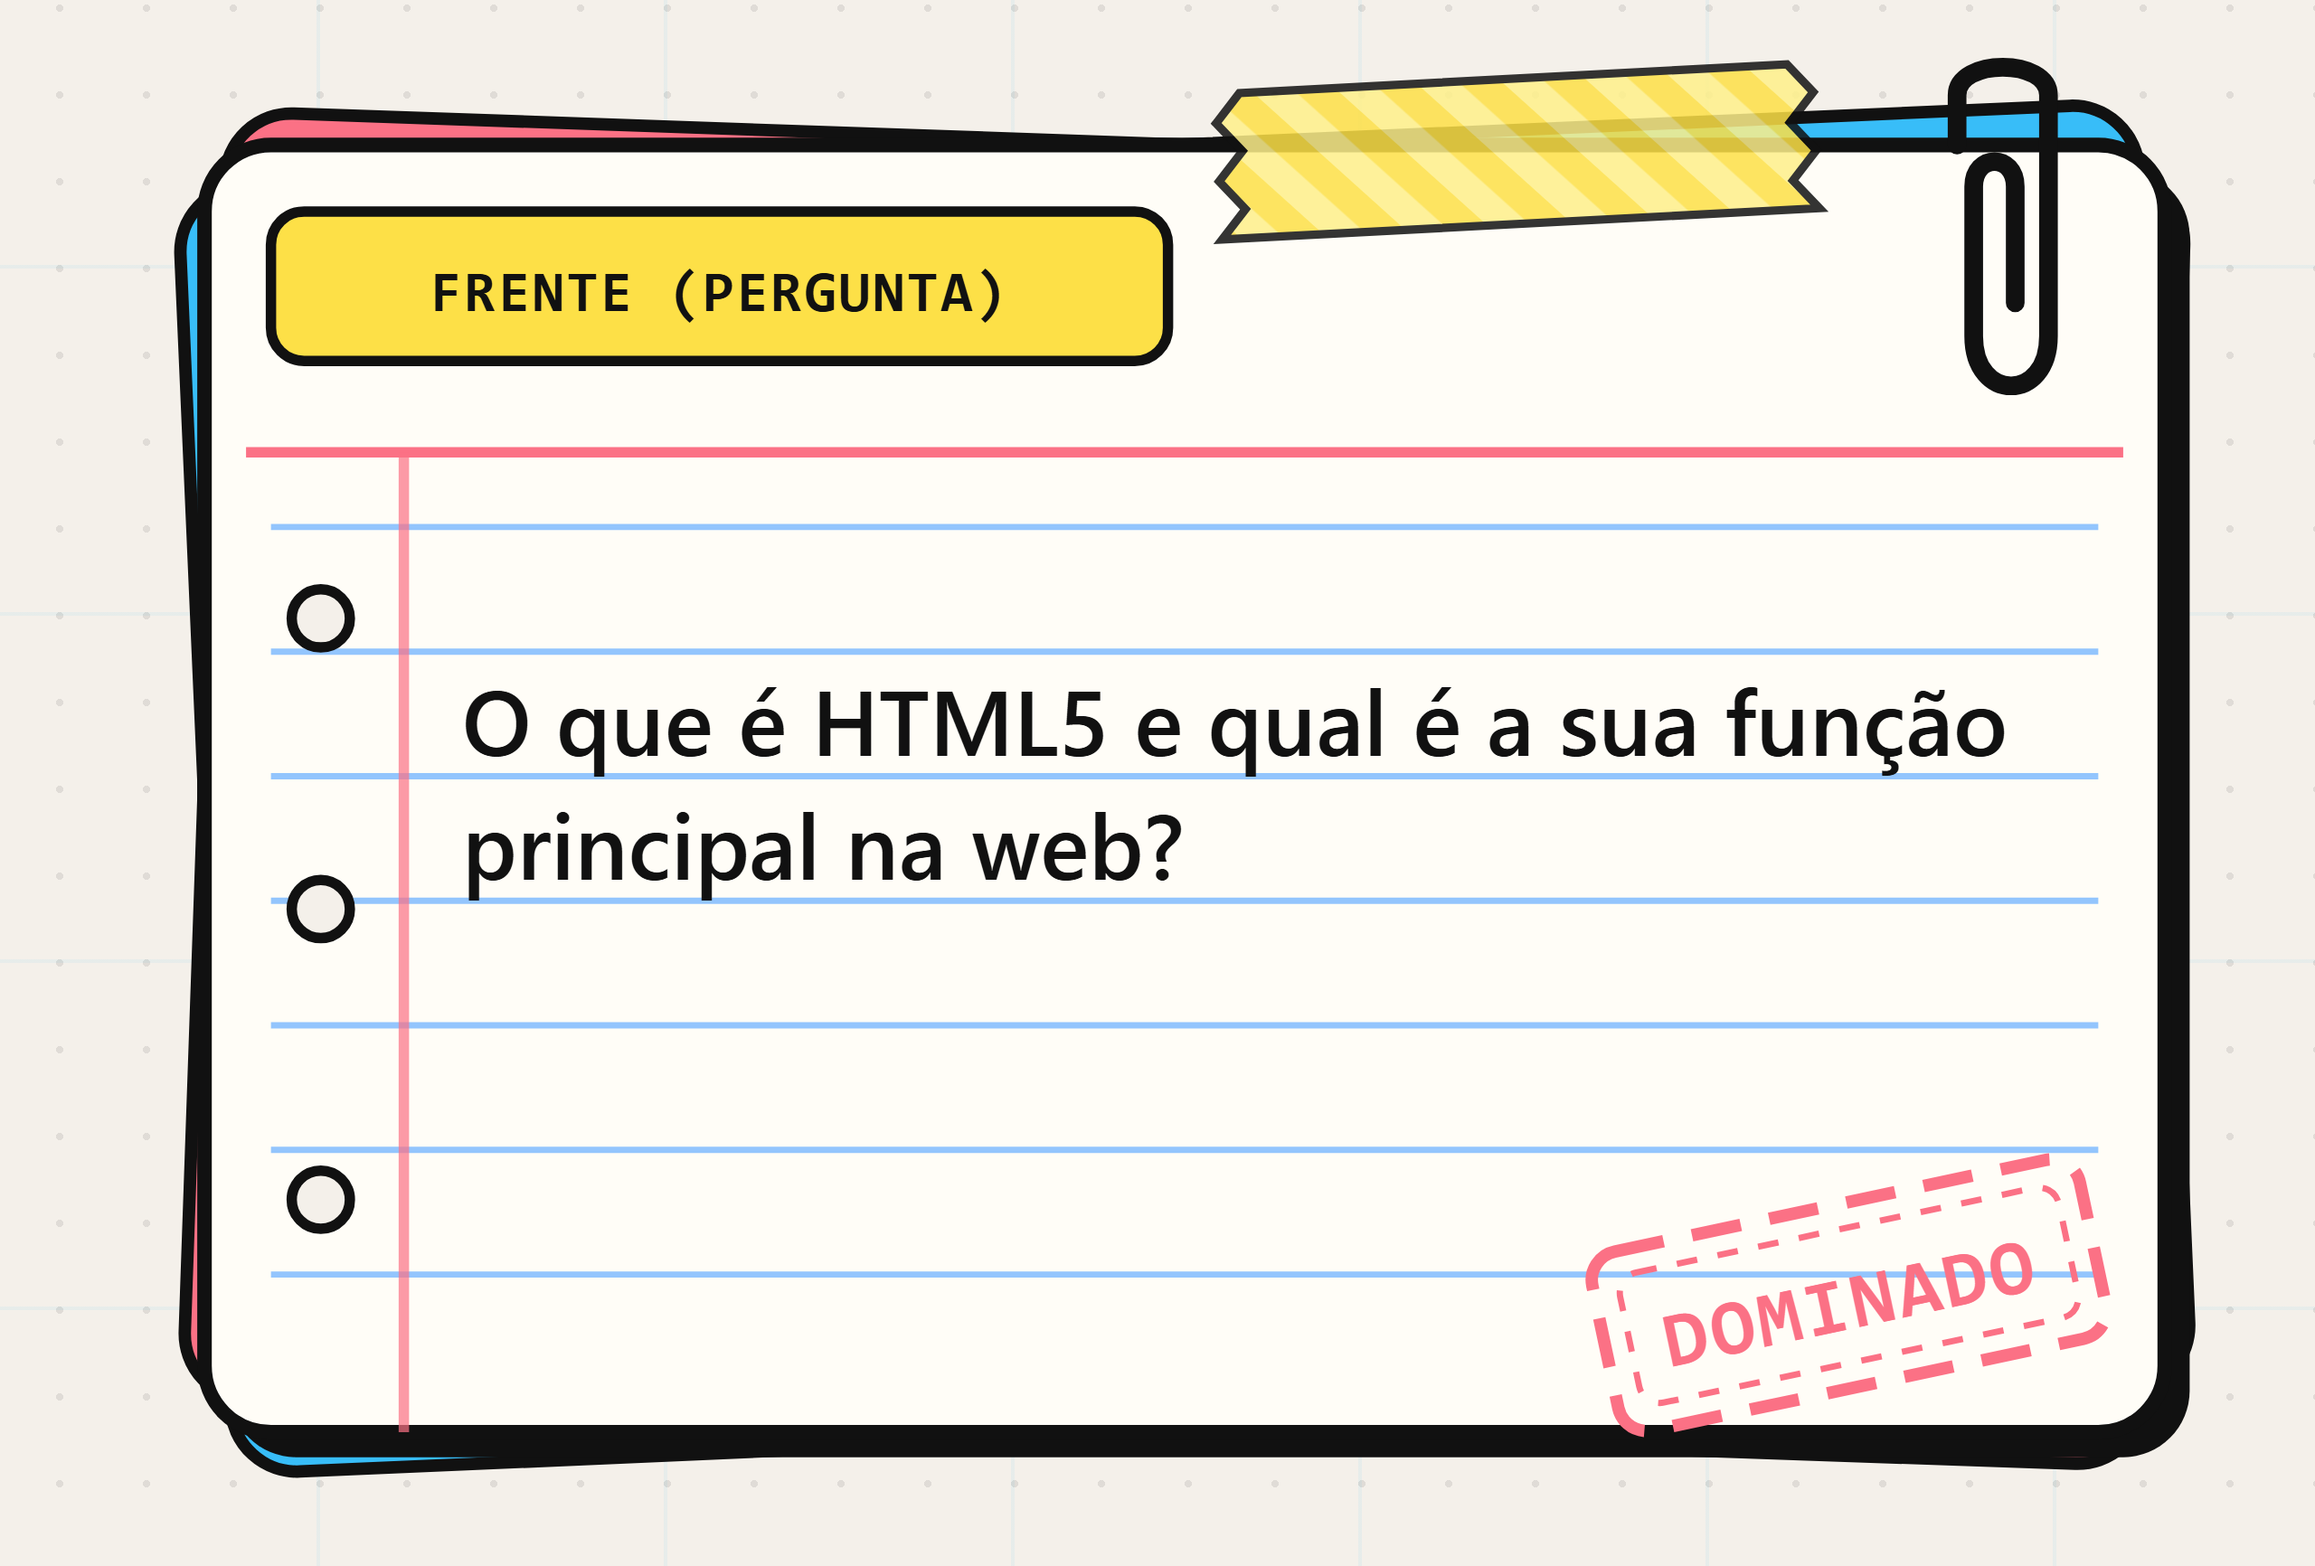
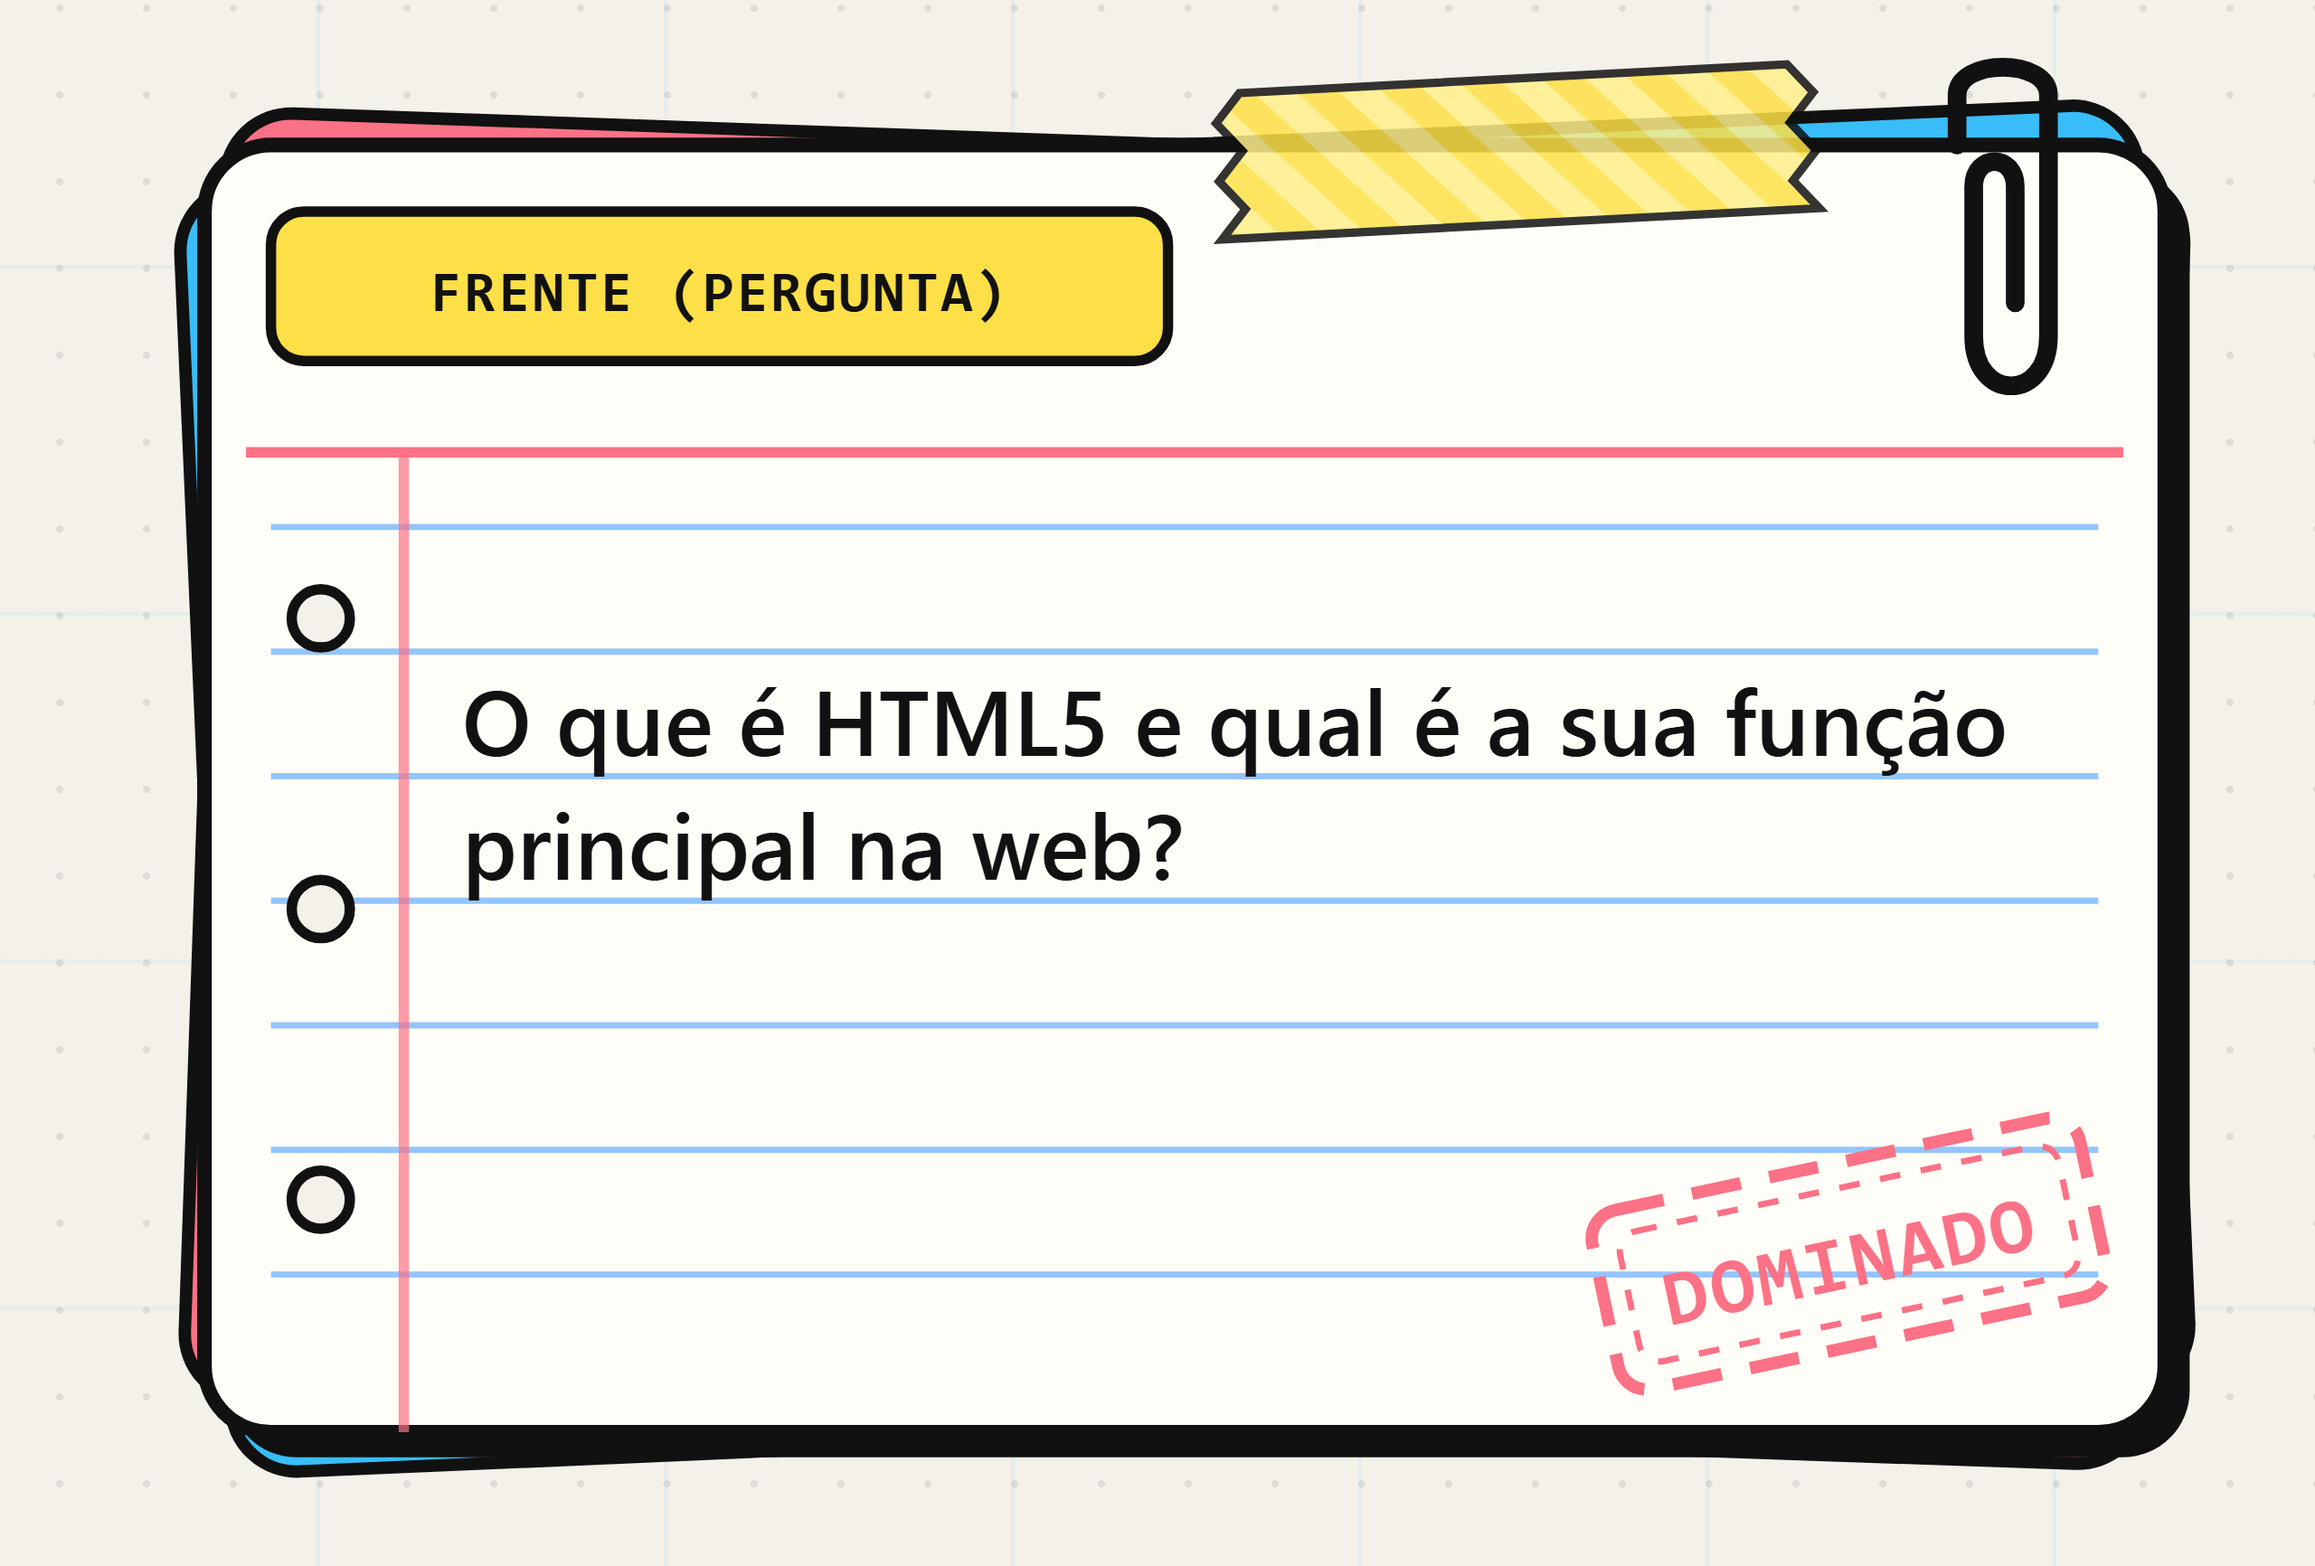
Sobe o carimbo DOMINADO 10px e o atrasa para o texto
- rotate(-12 430 303) -> 293; rects y 281/287 -> 271/277; texto y 311 -> 301 nas duas faces.
- Canto inferior deixou de cruzar a borda da ficha (base 337 -> 327, dentro dos 336).
- O grupo do carimbo agora vem ANTES do <text> no DOM: a tinta das linhas pinta por cima, mantendo a leitura na quinta linha.
- Teste 4.7g recalculado no novo centro (topo 259, faixa 250..265) e 4.7h novo: base <= 336 e ordem DOM texto/carimbo.
- Spec do flashcard-rendering com o novo posicionamento e a captura docs/carimbo.png refeita.

Changed region(s): [[0.6875, 0.7171, 0.9375, 0.9353]]

diff --git a/index.html b/index.html
@@ -92,19 +92,20 @@
             <!-- clipe de papel no canto superior direito -->
             <path class="clip" d="M456,26 L456,14 C456,5 478,5 478,14 L478,72 C478,88 460,88 460,72 L460,36 C460,28 470,28 470,36 L470,64" fill="none" stroke="#111111" stroke-width="4.5" stroke-linecap="round" stroke-linejoin="round"></path>
 
+            <!-- carimbo DOMINADO: só aparece quando o cartão está aprendido.
+                 Fica ANTES do texto no DOM: a tinta das linhas pinta por cima dele -->
+            <g id="stampFront" class="stamp is-hidden" transform="rotate(-12 430 293)">
+              <rect x="370" y="271" width="120" height="44" rx="7" fill="none" stroke="#fb7185" stroke-width="3" stroke-dasharray="12 7"></rect>
+              <rect x="376" y="277" width="108" height="32" rx="5" fill="none" stroke="#fb7185" stroke-width="1.5" stroke-dasharray="5 5"></rect>
+              <text class="stamp-text" x="430" y="301" text-anchor="middle">DOMINADO</text>
+            </g>
+
             <text id="cardTextFront" class="card-text" x="96" y="196"><tspan x="96">Flashcard de exemplo</tspan></text>
 
             <text id="emptyFront" class="card-empty is-hidden" x="270" y="182" text-anchor="middle">
               <tspan x="270">O baralho está vazio!</tspan>
               <tspan x="270" dy="30">Adicione um cartão novo.</tspan>
             </text>
-
-            <!-- carimbo DOMINADO: só aparece quando o cartão está aprendido -->
-            <g id="stampFront" class="stamp is-hidden" transform="rotate(-12 430 303)">
-              <rect x="370" y="281" width="120" height="44" rx="7" fill="none" stroke="#fb7185" stroke-width="3" stroke-dasharray="12 7"></rect>
-              <rect x="376" y="287" width="108" height="32" rx="5" fill="none" stroke="#fb7185" stroke-width="1.5" stroke-dasharray="5 5"></rect>
-              <text class="stamp-text" x="430" y="311" text-anchor="middle">DOMINADO</text>
-            </g>
           </svg>
 
           <!-- Verso: RESPOSTA -->
@@ -162,19 +163,20 @@
             <!-- clipe de papel no canto superior direito -->
             <path class="clip" d="M478,14 L478,74 C478,92 460,92 460,74 L460,36 C460,26 471,26 471,36 L471,64" fill="none" stroke="#111111" stroke-width="5" stroke-linecap="round" stroke-linejoin="round"></path>
 
+            <!-- carimbo DOMINADO: só aparece quando o cartão está aprendido.
+                 Fica ANTES do texto no DOM: a tinta das linhas pinta por cima dele -->
+            <g id="stampBack" class="stamp is-hidden" transform="rotate(-12 430 293)">
+              <rect x="370" y="271" width="120" height="44" rx="7" fill="none" stroke="#fb7185" stroke-width="3" stroke-dasharray="12 7"></rect>
+              <rect x="376" y="277" width="108" height="32" rx="5" fill="none" stroke="#fb7185" stroke-width="1.5" stroke-dasharray="5 5"></rect>
+              <text class="stamp-text" x="430" y="301" text-anchor="middle">DOMINADO</text>
+            </g>
+
             <text id="cardTextBack" class="card-text" x="96" y="196"><tspan x="96">A resposta aparece ao virar</tspan></text>
 
             <text id="emptyBack" class="card-empty is-hidden" x="270" y="182" text-anchor="middle">
               <tspan x="270">O baralho está vazio!</tspan>
               <tspan x="270" dy="30">Adicione um cartão novo.</tspan>
             </text>
-
-            <!-- carimbo DOMINADO: só aparece quando o cartão está aprendido -->
-            <g id="stampBack" class="stamp is-hidden" transform="rotate(-12 430 303)">
-              <rect x="370" y="281" width="120" height="44" rx="7" fill="none" stroke="#fb7185" stroke-width="3" stroke-dasharray="12 7"></rect>
-              <rect x="376" y="287" width="108" height="32" rx="5" fill="none" stroke="#fb7185" stroke-width="1.5" stroke-dasharray="5 5"></rect>
-              <text class="stamp-text" x="430" y="311" text-anchor="middle">DOMINADO</text>
-            </g>
           </svg>
         </div>
 

diff --git a/openspec/changes/neo-brutalist-redesign/specs/flashcard-rendering/spec.md b/openspec/changes/neo-brutalist-redesign/specs/flashcard-rendering/spec.md
@@ -19,7 +19,11 @@ The system SHALL render the current card side inside an `<svg>` element with `vi
 
 #### Scenario: Learned card carries the stamp
 - **WHEN** the displayed card is marked as learned
-- **THEN** a rotated -12° double-dashed ink stamp reading DOMINADO appears at the lower right of the face, and it disappears when the card is unmarked
+- **THEN** a rotated -12° double-dashed ink stamp reading DOMINADO appears at the lower right of the face, fully inside the card surface, and it disappears when the card is unmarked
+
+#### Scenario: Stamp stays clear of the text ink
+- **WHEN** the stamp and the wrapped text are both present
+- **THEN** the stamp sits at least 10px above its previous baseline (rotation center `430,293`, lowest corner no lower than the card's bottom edge) and its group precedes the text element in the DOM, so the text ink always paints over the stamp
 
 ### Requirement: Keep card text inside the card bounds
 The system SHALL lay out wrapped lines within the card's text area so long content remains readable instead of overflowing the SVG viewport.
